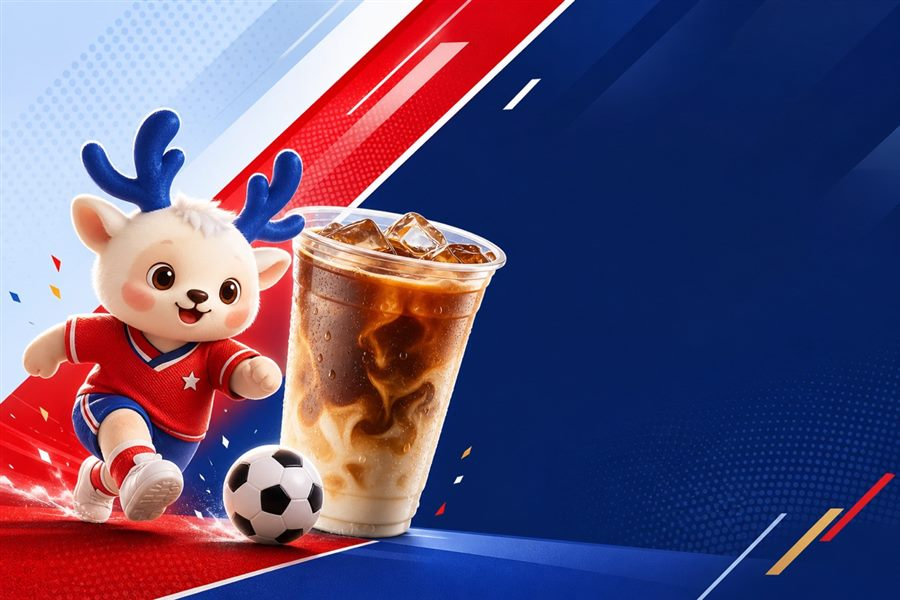
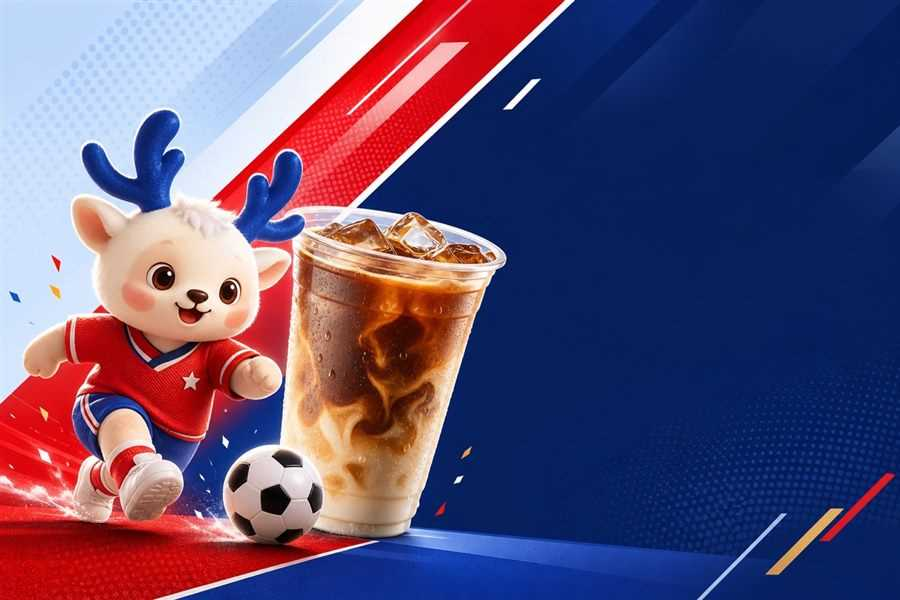
add 我的

diff --git a/miniprogram/pages/coffeeMember/coffeeMember.js b/miniprogram/pages/coffeeMember/coffeeMember.js
@@ -1,0 +1,63 @@
+Page({
+  data: {
+    statusBarHeight: 20,
+    selectedPlan: 0,
+    agreementChecked: false,
+    drinks: [
+      { name: '小青桔C美式', image: '/images/coffee-menu-product-4.jpg' },
+      { name: '标准美式', image: '/images/coffee-menu-product-3.jpg' },
+      { name: '拿铁', image: '/images/coffee-menu-product-1.jpg' }
+    ],
+    bottomTabs: [
+      { icon: '⌂', title: '首页' },
+      { icon: '▰', title: '菜单' },
+      { icon: '▮', title: '即享' },
+      { icon: '♛', title: '会员卡' },
+      { icon: '♟', title: '我的' }
+    ]
+  },
+
+  onLoad() {
+    const windowInfo = wx.getWindowInfo ? wx.getWindowInfo() : wx.getSystemInfoSync();
+    this.setData({ statusBarHeight: windowInfo.statusBarHeight || 20 });
+  },
+
+  selectPlan(event) {
+    this.setData({ selectedPlan: Number(event.currentTarget.dataset.index) });
+  },
+
+  toggleAgreement() {
+    this.setData({ agreementChecked: !this.data.agreementChecked });
+  },
+
+  subscribe() {
+    if (!this.data.agreementChecked) {
+      wx.showToast({ title: '请先勾选会员服务协议', icon: 'none' });
+      return;
+    }
+    wx.showToast({ title: '开通连续包月', icon: 'none' });
+  },
+
+  showAction(event) {
+    wx.showToast({ title: event.currentTarget.dataset.title || '更多功能', icon: 'none' });
+  },
+
+  switchBottomTab(event) {
+    const tabIndex = Number(event.currentTarget.dataset.index);
+    if (tabIndex === 0) {
+      wx.redirectTo({ url: '/pages/coffeeHome/coffeeHome' });
+      return;
+    }
+    if (tabIndex === 1) {
+      wx.redirectTo({ url: '/pages/coffeeMenu/coffeeMenu' });
+      return;
+    }
+    if (tabIndex === 2) {
+      wx.redirectTo({ url: '/pages/coffeeEnjoy/coffeeEnjoy' });
+      return;
+    }
+    if (tabIndex === 4) {
+      wx.redirectTo({ url: '/pages/coffeeMy/coffeeMy' });
+    }
+  }
+});

diff --git a/miniprogram/pages/coffeeMy/coffeeMy.js b/miniprogram/pages/coffeeMy/coffeeMy.js
@@ -1,0 +1,57 @@
+Page({
+  data: {
+    statusBarHeight: 20,
+    assets: [
+      { value: '15', unit: '张', title: '优惠券', badge: '即将过期' },
+      { value: '0', unit: '张', title: '咖啡卡券' },
+      { value: '0', unit: '张', title: '好运卡' },
+      { value: '0', unit: '元', title: '余额' }
+    ],
+    functions: [
+      { icon: '▱', title: '招商加盟' },
+      { icon: '◇', title: '租赁合作' },
+      { icon: '♧', title: '兑换优惠' },
+      { icon: '▣', title: '礼品卡' },
+      { icon: '▢', title: '口味定制' }
+    ],
+    bottomTabs: [
+      { icon: '⌂', title: '首页' },
+      { icon: '▰', title: '菜单' },
+      { icon: '▮', title: '即享' },
+      { icon: '♛', title: '会员卡' },
+      { icon: '♟', title: '我的' }
+    ]
+  },
+
+  onLoad() {
+    const windowInfo = wx.getWindowInfo ? wx.getWindowInfo() : wx.getSystemInfoSync();
+    this.setData({ statusBarHeight: windowInfo.statusBarHeight || 20 });
+  },
+
+  showAction(event) {
+    wx.showToast({ title: event.currentTarget.dataset.title || '功能建设中', icon: 'none' });
+  },
+
+  switchBottomTab(event) {
+    const tabIndex = Number(event.currentTarget.dataset.index);
+    if (tabIndex === 0) {
+      wx.redirectTo({ url: '/pages/coffeeHome/coffeeHome' });
+      return;
+    }
+    if (tabIndex === 1) {
+      wx.redirectTo({ url: '/pages/coffeeMenu/coffeeMenu' });
+      return;
+    }
+    if (tabIndex === 2) {
+      wx.redirectTo({ url: '/pages/coffeeEnjoy/coffeeEnjoy' });
+      return;
+    }
+    if (tabIndex === 3) {
+      wx.redirectTo({ url: '/pages/coffeeMember/coffeeMember' });
+      return;
+    }
+    if (tabIndex !== 4) {
+      wx.showToast({ title: this.data.bottomTabs[tabIndex].title, icon: 'none' });
+    }
+  }
+});

diff --git a/miniprogram/pages/coffeeEnjoy/coffeeEnjoy.js b/miniprogram/pages/coffeeEnjoy/coffeeEnjoy.js
@@ -80,6 +80,14 @@ Page({
       wx.redirectTo({ url: '/pages/coffeeMenu/coffeeMenu' });
       return;
     }
+    if (tabIndex === 3) {
+      wx.redirectTo({ url: '/pages/coffeeMember/coffeeMember' });
+      return;
+    }
+    if (tabIndex === 4) {
+      wx.redirectTo({ url: '/pages/coffeeMy/coffeeMy' });
+      return;
+    }
     if (tabIndex !== 2) {
       wx.showToast({ title: this.data.bottomTabs[tabIndex].title, icon: 'none' });
     }

diff --git a/miniprogram/pages/coffeeHome/coffeeHome.js b/miniprogram/pages/coffeeHome/coffeeHome.js
@@ -297,6 +297,14 @@ Page({
       wx.navigateTo({ url: '/pages/coffeeEnjoy/coffeeEnjoy' });
       return;
     }
+    if (tabIndex === 3) {
+      wx.navigateTo({ url: '/pages/coffeeMember/coffeeMember' });
+      return;
+    }
+    if (tabIndex === 4) {
+      wx.navigateTo({ url: '/pages/coffeeMy/coffeeMy' });
+      return;
+    }
     this.setData({ activeTab: tabIndex });
   }
 });

diff --git a/miniprogram/pages/coffeeMenu/coffeeMenu.js b/miniprogram/pages/coffeeMenu/coffeeMenu.js
@@ -107,6 +107,14 @@ Page({
       wx.redirectTo({ url: '/pages/coffeeEnjoy/coffeeEnjoy' });
       return;
     }
+    if (tabIndex === 3) {
+      wx.redirectTo({ url: '/pages/coffeeMember/coffeeMember' });
+      return;
+    }
+    if (tabIndex === 4) {
+      wx.redirectTo({ url: '/pages/coffeeMy/coffeeMy' });
+      return;
+    }
     if (tabIndex !== 1) {
       wx.showToast({ title: this.data.bottomTabs[tabIndex].title, icon: 'none' });
     }